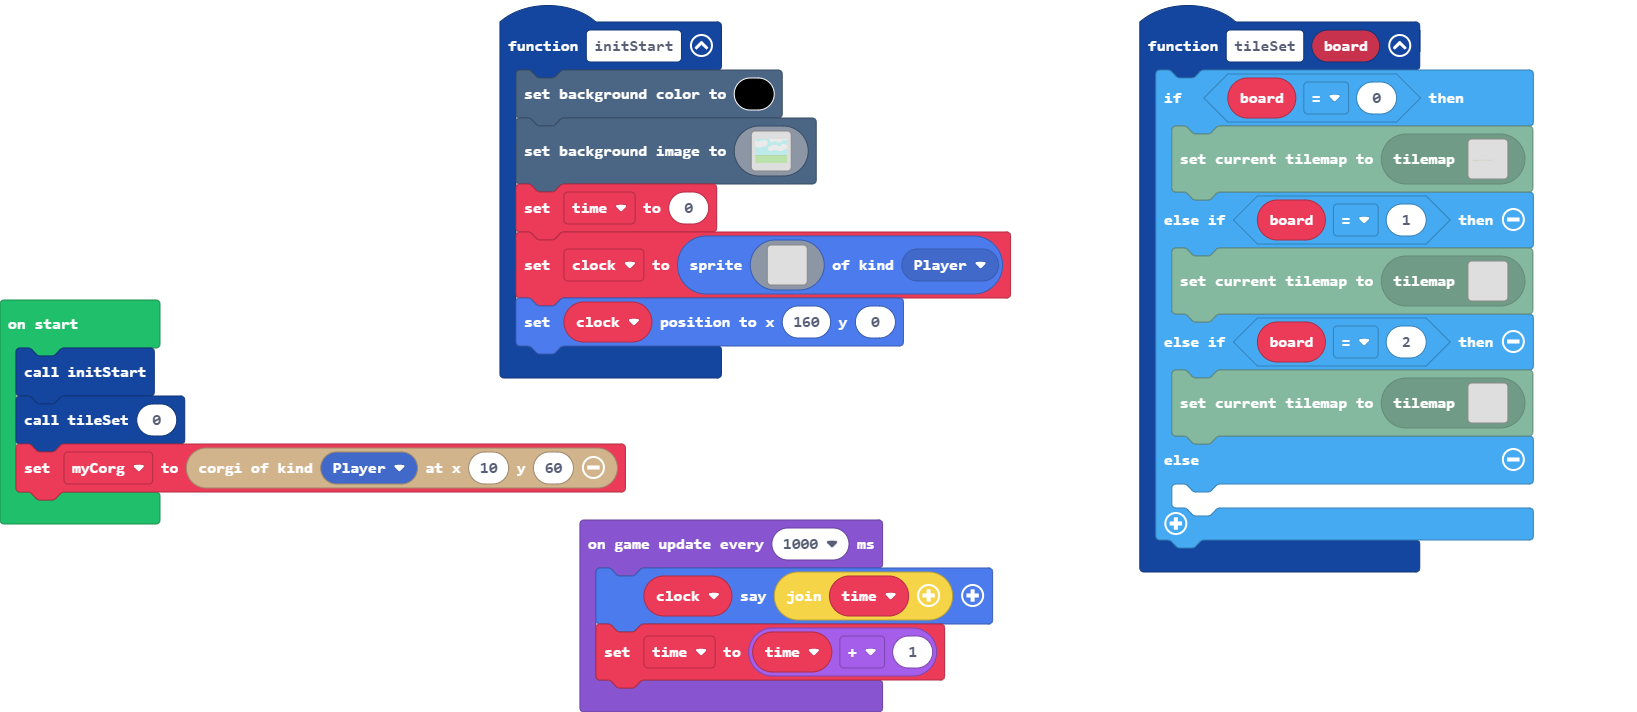
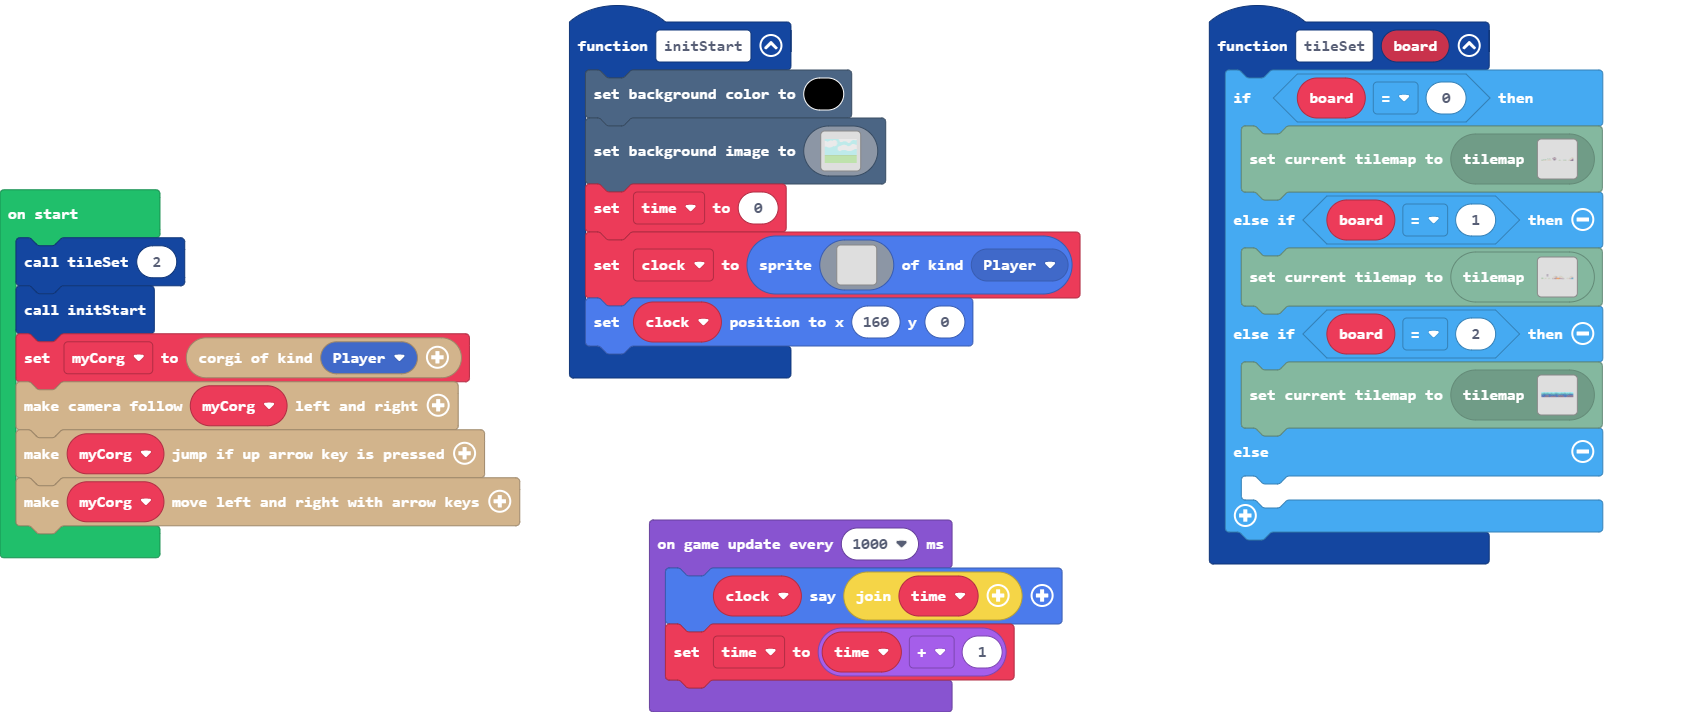
Restore '1/18/2021, 1:51:29 PM Update main.blocks, main.ts, tilemap.g.jres, tilemap.g.ts'

Changed region(s): [[0.0, 0.0, 0.6542, 1.0], [0.6854, 0.0, 0.9658, 0.8034]]

diff --git a/main.ts b/main.ts
@@ -33,16 +33,7 @@ function tileSet (board: number) {
             22...2222222..222222222...2222222222...22222222222
             `, [myTiles.transparency16,myTiles.tile2,myTiles.tile3,myTiles.tile4,myTiles.tile5,myTiles.tile6,sprites.builtin.oceanSand8,sprites.dungeon.darkGroundCenter,myTiles.tile7], TileScale.Sixteen)))
     } else {
-        tiles.loadMap(tiles.createMap(tiles.createTilemap(hex`3200080000000000000000000000000000000000000000000000000000000000000000000000000000000000000000000000000000000000000000000000000000000000000000000000000000000000000000000000000000000000000000000000000000000000000000000000000000000000000000000000000000000000000000000000000000000000000000000000000000000000000000000000000000000000000000000000000000000000000000000000000000000000000000000000000000000000000000000000000000000000000000000000000000000000000000000000000000000000000000000000000000000000000000000000000000000000000000000000000000000000000000000000000000000000000000000000000000000000000000000000000000000000000000000000000000000000000000000000000000000000000000000000000000000000000000000000000000000000000000000000000000000000000000000000000000000000000000000000000000000000000000000000000000000000`, img`
-            ..................................................
-            ..................................................
-            ..................................................
-            ..................................................
-            ..................................................
-            ..................................................
-            ..................................................
-            ..................................................
-            `, [myTiles.transparency16], TileScale.Sixteen)))
+    	
     }
 }
 function initStart () {
